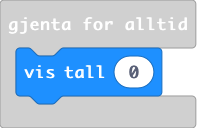
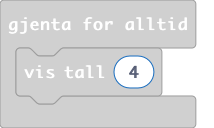
Oppdater main.blocks, main.ts

Changed region(s): [[0.0561, 0.3438, 0.785, 0.8438], [0.5888, 0.5, 0.6729, 0.625]]

diff --git a/main.ts b/main.ts
@@ -1,3 +1,3 @@
 basic.forever(function () {
-    basic.showNumber(0)
+    basic.showNumber(4)
 })
